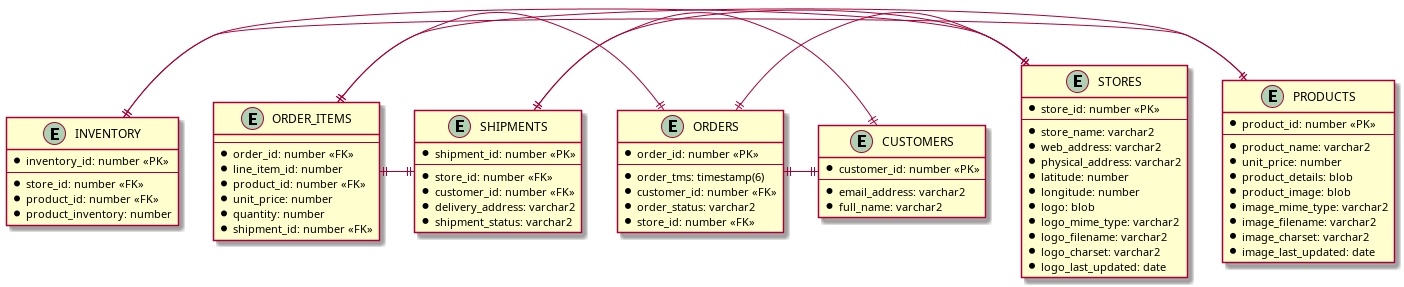
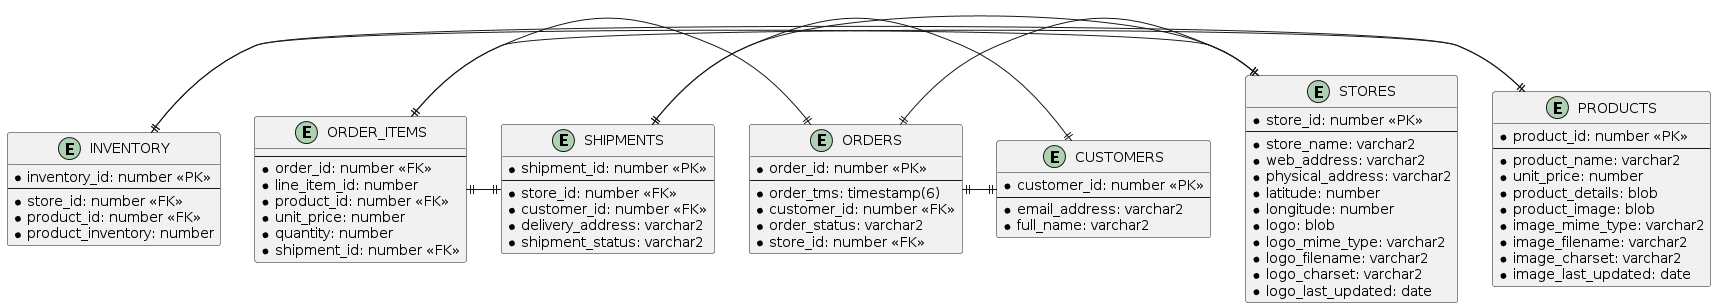
add documentation

diff --git a/README.md b/README.md
@@ -43,11 +43,19 @@ make plantuml
 make dbml
 ```
 
-![schema](examples/ora-model.png)
+
+
+### https://www.plantuml.com/plantuml
 
 * [./examples/ora-model.plantuml](./examples/ora-model.plantuml)
+
+![schema](examples/ora-model.png)
+
+### https://dbdiagram.io
+
 * [./examples/ora-model.dbml](./examples/ora-model.dbml)
 
+![schema](examples/ora-model-dbml.png)
 
 
 ## References
